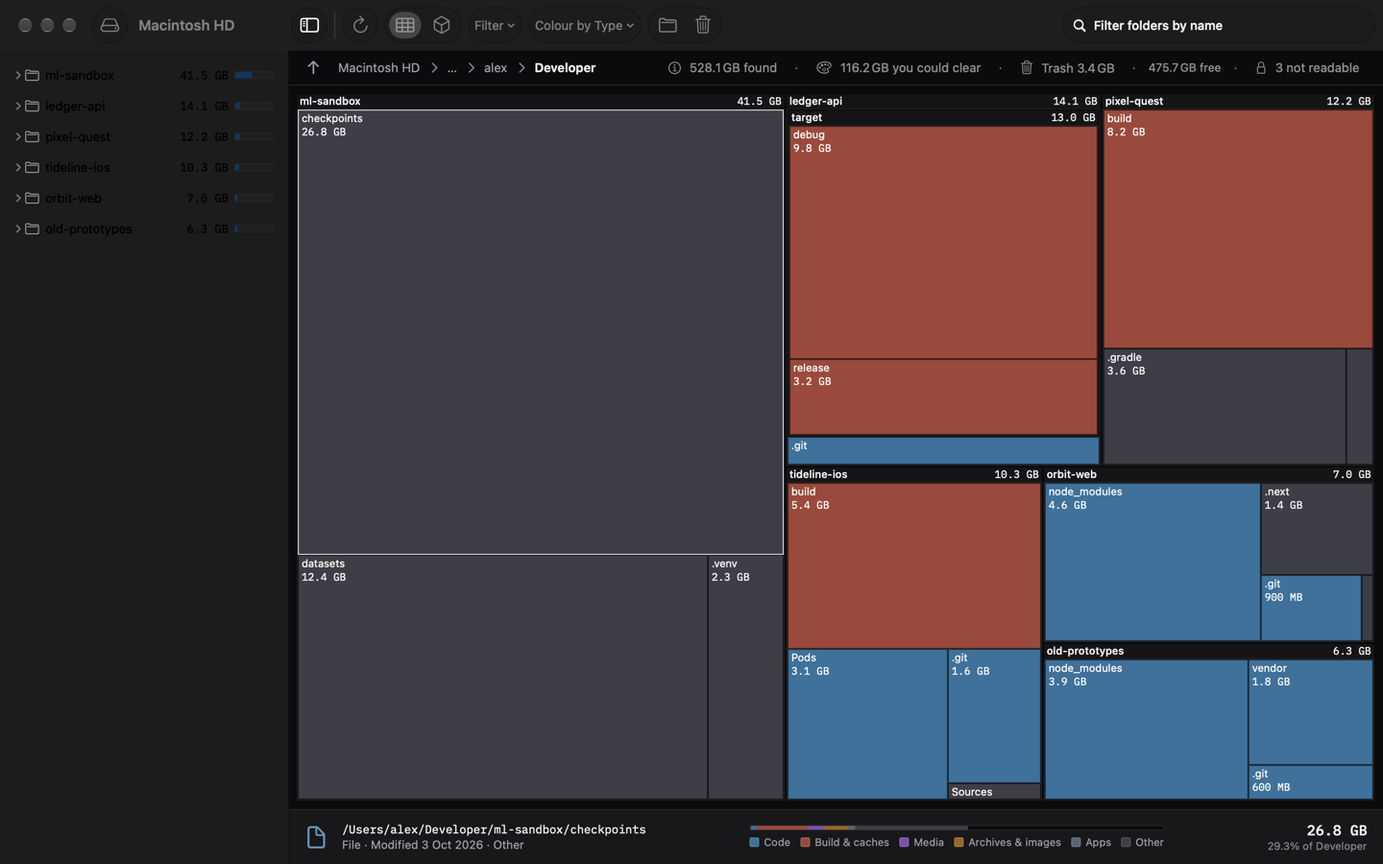
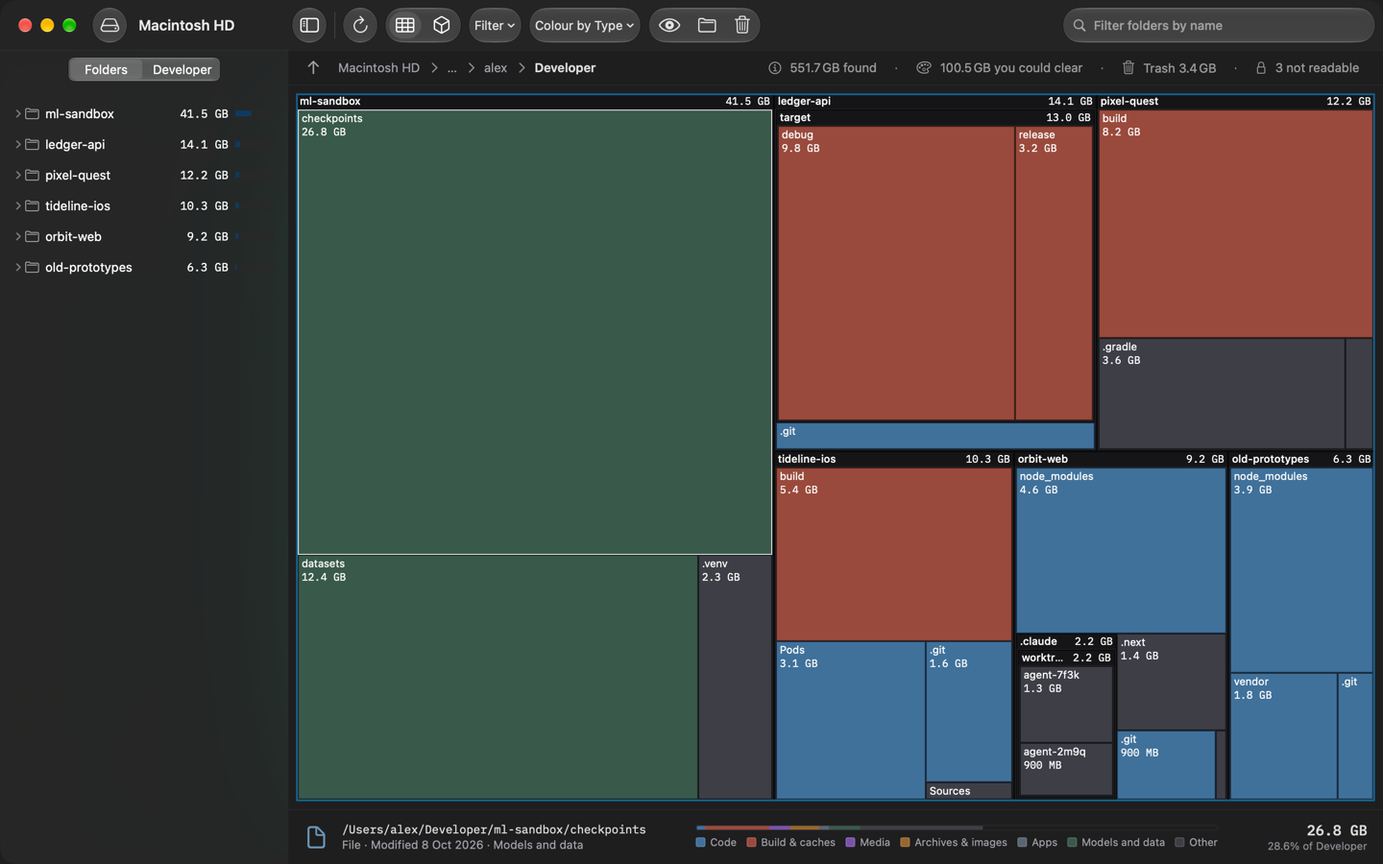
Update the Scope pages and add the connector page
Publish the copy from docs/website/ in ayeo-io/scope at 9d2a6be:

- /scope: seven colour modes, the way back, the tool's own command,
  and the Keep it from filling again, Put a project to sleep and
  Hand it over sections; footer links Accessibility.
- /scope/support, /scope/privacy, /scope/accessibility: new text.
- /scope/connector: new page for Scope for agents.

Replace five screenshots and add 2-3d.png and 6-trash.png. Add a
scopeSections filter that renders the connector copy between its
hero and footer.

diff --git a/src/assets/css/site.css b/src/assets/css/site.css
@@ -596,6 +596,20 @@ svg text { font-size: 14px; }
 .mode-age { --swatch: #b08d2c; }
 .mode-clearable { --swatch: #5b9c5a; }
 .mode-change { --swatch: #8b5bb3; }
+.mode-growth { --swatch: #c0392b; }
+.mode-origin { --swatch: #5b6472; }
+.scope-cards { list-style: none; margin: 1.5rem 0 0; padding: 0; display: grid; gap: 1rem; grid-template-columns: repeat(auto-fit, minmax(min(100%, 17rem), 1fr)); }
+.scope-cards li { border: 1px solid var(--rule); border-radius: var(--radius); background: var(--paper-2); padding: 1rem 1.15rem; color: var(--ink-2); min-width: 0; }
+.scope-cards strong { color: var(--ink); }
+.scope-pair-text { margin-top: clamp(2.5rem, 5vw, 3.5rem); gap: 2rem clamp(2rem, 4vw, 3rem); }
+.scope-pair-text p { margin: 1rem 0 0; color: var(--ink-2); }
+.scope-pair-text strong { color: var(--ink); }
+.scope-plain { margin: 1rem 0 0; padding-left: 1.2rem; color: var(--ink-2); }
+.scope-plain li { margin-bottom: 0.6rem; }
+.scope-shot-after { margin-top: 2rem; }
+.scope-text code { font-family: var(--mono); font-size: 0.92em; }
+.scope-doc blockquote { margin: 1rem 0; padding: 0.25rem 0 0.25rem 1.1rem; border-left: 4px solid var(--link); }
+.scope-doc .prose { max-width: 42em; }
 .scope-note { color: var(--ink-2); max-width: 38em; }
 .scope-list { list-style: none; margin: 1.5rem 0 0; padding: 0; display: grid; gap: 0.9rem; max-width: 42em; }
 .scope-list li { position: relative; padding-left: 1.4rem; color: var(--panel-text); }

diff --git a/eleventy.config.js b/eleventy.config.js
@@ -55,6 +55,16 @@ export default function (eleventyConfig) {
     return scopeMarkdown.render(source.replace(/^# .*\n/, ""));
   });
 
+  // The connector copy carries its own hero and footer, which the page
+  // template lays out; this renders the sections between them.
+  eleventyConfig.addFilter("scopeSections", (name, from, to) => {
+    const source = readFileSync(`src/_includes/scope/${name}.md`, "utf8");
+    const start = source.indexOf(`\n## ${from}\n`);
+    const end = source.indexOf(`\n## ${to}\n`);
+    if (start < 0 || end < start) throw new Error(`scopeSections: ${name}.md has no "## ${from}" before "## ${to}"`);
+    return scopeMarkdown.render(source.slice(start, end));
+  });
+
   eleventyConfig.addPlugin(feedPlugin, {
     type: "atom",
     outputPath: "/news/feed.xml",

diff --git a/src/_includes/scope/support.md b/src/_includes/scope/support.md
@@ -1,6 +1,6 @@
 # Scope support
 
-Scope shows you where your disk has gone. This page answers the questions we get most. If yours is not here, email support@ayeo.io with your macOS version and what you saw, and we will reply within two working days.
+Scope shows you where your disk has gone. This page answers the questions we get most. If yours is not here, email support@ayeo.io with your macOS version and what you saw, and we will reply within two working days. Help > Scope Help in the app opens this page.
 
 ## Getting started
 
@@ -14,40 +14,71 @@ Scope keeps each finished scan, so the next time you open it your disk shows at 
 
 macOS protects some folders, such as Mail, Messages, Safari data and parts of ~/Library. Without Full Disk Access, Scope shows them as "not readable" and counts them as unknown rather than guessing.
 
-To grant it: System Settings > Privacy & Security > Full Disk Access, turn on Scope, then scan again. Scope offers to open that page for you when it meets a protected folder.
+To grant it: System Settings > Privacy & Security > Full Disk Access, turn on Scope, then scan again. Scope offers to open that page for you when it meets a protected folder, and Scope > Full Disk Access… opens the sheet at any time.
 
 You can turn it off again at any time. Scope reads file names, sizes and dates only, never file contents, and sends nothing anywhere (see the privacy policy).
 
 ## Reading the map
 
-- **Size** is the space a file takes on disk, in allocated blocks, so it can differ from the size Finder shows for sparse or compressed files.
-- **Colour by Depth** (⌘1) shows how deep each folder is. **Type** (⌘2) colours by kind: code, build output and caches, media, archives and images, apps. **Age** (⌘3) colours by modification date. **Clearable** (⌘4) picks out build output, package caches, simulators and containers that can be rebuilt. **Change** (⌘5) compares with a saved scan.
+- **Size** is the space a file takes on disk, in allocated blocks, so it can differ from the size Finder shows for sparse or compressed files. Where clearing an entry would free less than its size, because a clone or hard link elsewhere shares its blocks, the info strip says what clearing frees.
+- **Colour by Depth** (⌘1) shows how deep each folder is. **Type** (⌘2) colours by kind: code, build output and caches, media, archives and images, apps, models and data. **Age** (⌘3) colours by modification date. **Clearable** (⌘4) picks out build output, package caches, virtual environments, agent worktrees and model stores that can be rebuilt, each with its way back. **Change** (⌘5) compares with a saved scan. **Growth** (⌘6) shows what is growing now while the volume is watched. **Origin** (⌘7) groups folders by the tool that wrote them.
 - The **3D map** (View > 3D Map, ⌥⌘3) shows the same disk as a platter of blocks. Drag to orbit, scroll or pinch to zoom, hold ⇧ or ⌥ and drag to pan, and press ⌥⌘0 to reset the camera. Each block's height is its size, or its age if you choose. The flat map and the 3D map share the same zoom, selection and filters.
-- The **sidebar** lists folders by size as an outline.
+- The **sidebar** (⌥⌘S) lists folders by size as an outline. Its **Developer** view lists the projects on the disk, with what could be cleared in each and when you last worked on it.
 - **Filters** in the toolbar narrow the map by name, kind or age.
+- The summary above the map says what was found, what you could clear and how much of it comes back in under a minute, the size of the Trash, the space free and how many folders could not be read. Each part is a button that shows more.
 
 ## Why the total is less than Finder's "used" figure
 
 Scope counts each file once per path and shows the sum of what it could read. Three things make its total smaller than the volume's used space:
 
 - Folders Scope cannot read (shown as "not readable" and counted in the summary).
-- Purgeable space: files macOS can remove on demand, such as local snapshots and caches. The picker shows this figure separately.
+- Purgeable space and local snapshots: files macOS can remove on demand. The picker shows the purgeable figure separately.
 - Files shared between paths by hard links or APFS clones, which Scope counts once per path.
 
-Scope says what it could not see rather than filling the gap with a guess.
+The grey part of the capacity bar, and the "Elsewhere on this disk" tile in the 3D map, hold the difference. Click either for a breakdown: the disk's other volumes, the local snapshots by date, the folders Scope could not read, and what is left, which Scope names as such rather than guessing. The breakdown shows the command that removes a snapshot; Scope never runs it.
 
 ## Freeing space
 
-- **Move to Trash** sends the item to the macOS Trash. Press ⌘Z to put it back. Scope never empties the Trash and never deletes anything permanently; empty the Trash in Finder when you are ready.
+- **Move to Trash** sends the item, or every item in a selection, to the macOS Trash. Press ⌘Z to put it back. The sheet names what the space comes back as, and warns before data macOS or your apps keep, and before a worktree with changes not yet committed. The space comes back when the Trash is emptied: choose Entry > Empty What Scope Moved… to remove what Scope moved there, after an alert, or empty the whole Trash in Finder. Scope never removes what it did not move.
+- **The way back.** Every clearable entry says what getting it back would cost: it rebuilds itself, one command, a build, or a download timed at the speed you set in Settings. Where the Trash would break the tool that owns a folder, such as an agent worktree or Docker's disk image, the sheet shows the tool's own command and **Copy Command** copies it. Scope never runs a command.
+- **Hibernate** (in the Developer view) moves a dormant project's rebuildable parts to the Trash, keeps your own files and anything not committed, and writes a receipt, `HIBERNATED.md`, at the top of the project with the build command. ⌘Z wakes it. A project is dormant when its own files have not changed for the days set in Settings (90 until you change it).
 - **Rescan Folder** (⌘R while zoomed in) scans one folder again and updates every size above it, so you do not rescan the whole volume after clearing something.
-- **Reveal in Finder** and **Open With** are in the right-click menu.
+- **Reveal in Finder** and **Open With** are in the right-click menu, and in the Entry menu for the selected entry.
 
-Scope does not clean, "optimise" or find duplicates. It shows you the disk; what you delete is your decision.
+Scope does not choose what to delete. It names what you could clear and what getting it back would cost, and does what you pick. There is no "optimise your Mac" and no one-press clean.
+
+## Watching a volume
+
+Scan > Watch Volume…, or the Watch button in the toolbar, keeps an eye on the volume after the scan. A menu bar item reads the free space and, when the disk is filling, says about when it will be full; its menu lists the five fastest-growing folders with their rate, and Colour by Growth shows them on the map. The window can be closed while Scope watches.
+
+Scope warns by notification for two causes only: the forecast falling under the threshold you set, and one file growing past a threshold in a short time. Choosing the warning opens Scope at the cause, and the warning offers to ignore that file. macOS asks for permission when you start watching; if notifications are off for Scope, the Watch sheet says so and opens the Notifications pane of System Settings.
+
+## Standing orders and the weekly review
+
+Settings > Standing Orders holds rules you write once: agent worktrees not changed for 14 days with nothing left to commit, build output of projects not changed for 60 days, and package folders of projects not changed for 90 days. All are off until you turn them on, and a rule moves nothing on its own. Scan > Weekly Review… lists what the rules match now, with what clearing each frees and its way back; you untick what stays, approve the rest, and one ⌘Z puts everything back. With "Notify me when a review is ready" on and the volume watched, one notification a week says how many entries the review holds.
+
+## Low space
+
+When the volume's free space falls under the figure in Settings (1 GB until you change it), a panel above the map lists the quickest space to get back from your last saved scan, cheapest way back first. Under 1 GB of free space a scan still runs, but its result is held in memory and saved once the space is back.
+
+## Saved scans, Change and time-lapse
+
+Scope keeps the last ten scans of a volume and, before them, one a week for a year, within the space set in Settings (5 GB until you change it). Scan > History opens any of them; Scan > Compare With and Colour by Change show what grew, shrank, is new or is gone since. Play beside the scrubber steps through the saved scans, oldest first. Settings turns history off or deletes it.
+
+## Export Summary
+
+File > Export Summary… (⇧⌘E) writes a short account of the scan to paste into a chat or send to a colleague: the 300 largest folders as an outline that adds up to the total, the totals by clearable group and by origin, and what could not be read. "Full" writes every folder at or above 0.1% of the scan as JSON. "Hide names" replaces your folder names with stand-ins and keeps the names tools chose. Scope writes a file or the clipboard; nothing is sent.
+
+## Settings
+
+- **General**: the download speed used to time a download's way back (Scope makes no network request to find it), the days after which a project is dormant, when Low space shows, and scan history with its space.
+- **Standing Orders**: the rules and the review notification.
 
 ## Known limits
 
 - Scope scans one volume at a time. Volumes mounted inside the one you scan (disk images, simulator runtimes) are shown as mount points and not entered.
 - The 3D map needs Metal. A Mac without it stays in the flat map and says why.
+- Scope never runs a command. The App Store app shows a tool's clean-up command for you to run; the separate [Scope for agents](https://ayeo.io/scope/connector) connector can run one with your approval.
 - Scope needs macOS 14 or later.
 
 ## Something went wrong
@@ -69,3 +100,4 @@ Purchases go through the Mac App Store, so Apple handles refunds: https://report
 Ayeo Ltd
 support@ayeo.io
 Privacy policy: https://ayeo.io/scope/privacy
+Accessibility: https://ayeo.io/scope/accessibility

diff --git a/src/_includes/scope/connector.md b/src/_includes/scope/connector.md
@@ -1,0 +1,79 @@
+# Scope for agents
+
+Address: https://ayeo.io/scope/connector
+
+Copy and structure for the connector page. The connector is a separate download from the Mac App Store app (see `Connector/APP-STORE.md`); this page is where the App Store app does not link yet.
+
+## Hero
+
+**Scope for agents**
+Let your coding agent ask before it fills the disk
+
+Agents write until zero bytes are free, then lose their own settings. Scope for agents is a small connector that gives Claude Code and Claude Desktop a sense of the disk: how much is free, what the budget is, what was left behind, and what could be cleared and how it comes back. Nothing moves until you say so, and nothing is ever erased.
+
+[Download Scope for agents](https://ayeo.io/scope/connector/scope.mcpb)
+Runs on node 18 or later · Free · No account, no network
+
+## What an agent can ask
+
+- **Does this job fit?** The free space, the budget you set ("leave 20 GB free"), and whether a job of a given size fits. When it does not, the largest entries that could be cleared, each with its way back.
+- **What did I leave?** What was written in the folder it worked in since it started: what could be cleared, with its way back, and your own files, which stay.
+- **What is filling the disk?** The folders that grew most since the last reading, by the tool that wrote them.
+- **Where is the rest?** The space the disk says is used that a scan did not find: the disk's other volumes with their use, the local snapshots by date, the folders Scope could not read, and what is left that Scope cannot name. It reads only, and removes no snapshot.
+- **What does this rule match?** What one of your standing orders matches now, with what clearing each entry frees and its way back. For an agent worktree, the agent asks git itself, so it knows exactly whether anything is left to commit and whether the branch was merged. It reads only: the weekly review in Scope is where you approve.
+- **Summarise this scan.** The same text Scope's File > Export Summary writes: the 300 largest folders as an outline that adds up to the total, the totals by clearable group and by origin, and what could not be read, so an agent elsewhere can reason about the disk from one message. With names hidden, each name you chose reads as a stand-in (`folder-12`, `project-3`), the same wherever it appears, and the names tools chose stay. It reads only, and sends nothing.
+- **May I clear this?** A proposal to move entries to the Trash. You see the proposal, its reason and what the Trash keeps, and you decide, each time. The agent cannot decide for you, and it cannot empty the Trash.
+
+Every answer says what Scope could not read and which figures are estimates. A clearing figure says what clearing frees beside the size when the two differ; a hard link counts once, and a clone counts whole, so the app shows the exact figure.
+
+## Install
+
+**Claude Desktop.** Open `scope.mcpb` (Settings > Extensions), choose the folder to analyse, and set Leave free to the GB you want kept free.
+
+**Claude Code.** Unpack `scope.mcpb` (it is a zip) somewhere that stays, such as `~/Library/Application Support/Scope/connector`, then add the server:
+
+```sh
+claude mcp add --env SCOPE_LEAVE_FREE_GB=20 --scope user scope -- node "$HOME/Library/Application Support/Scope/connector/server/index.js"
+```
+
+## Tell the agent to ask
+
+Add this sentence to the agent's instructions, such as `CLAUDE.md`:
+
+> Before a job that writes more than a few GB, ask Scope whether it fits the disk budget (`disk_budget`). When you finish, ask Scope what you left (`what_i_left`) and propose any clear-out with `propose_clear`, or a tool's own clean-up with `propose_cleanup`; never move, delete or clean up files yourself.
+
+## The Claude Code hook
+
+The hook asks for the budget when a session starts, so the answer is in the agent's context before it writes anything, and records what the session left when it ends. Add it to `~/.claude/settings.json`:
+
+```json
+{
+  "hooks": {
+    "SessionStart": [
+      { "matcher": "startup", "hooks": [ { "type": "command", "command": "SCOPE_LEAVE_FREE_GB=20 node \"$HOME/Library/Application Support/Scope/connector/server/index.js\" --ask disk_budget --stamp", "timeout": 30 } ] }
+    ],
+    "SessionEnd": [
+      { "hooks": [ { "type": "command", "command": "node \"$HOME/Library/Application Support/Scope/connector/server/index.js\" --ask what_i_left", "timeout": 30 } ] }
+    ]
+  }
+}
+```
+
+`--stamp` records when the session started, so "what I left" reads from there; the `startup` matcher keeps it to new sessions, so `/clear` and compaction do not move the start. The session's folder comes from the hook's input. Each call takes about 0.1 s over a small project.
+
+## What you see in Scope
+
+Window > Agent Log in Scope lists what agents asked and what they were told, and every proposal with who decided it. The connector writes the log to `~/Library/Application Support/Scope/agent-log.jsonl`; Scope only reads it.
+
+## What it never does
+
+- It never empties the Trash. An agent that asks is refused; only the person does that, in Finder or in Scope.
+- It never moves anything without your answer to that proposal.
+- It never runs a command. The way back for each entry is yours or the agent's to run.
+- It never talks to the network, and it reads only the folder you chose.
+
+## Footer
+
+Requires node 18 or later. Claude Code 2.1.76 or later asks you about proposals. In an older version, and in any host that cannot ask, a proposal is refused: nothing moves, and the agent is told to ask you itself.
+[Scope](https://ayeo.io/scope) · [Support](https://ayeo.io/scope/support) · [Privacy policy](https://ayeo.io/scope/privacy) · support@ayeo.io
+© 2026 Ayeo Ltd

diff --git a/src/_includes/scope/privacy.md b/src/_includes/scope/privacy.md
@@ -1,6 +1,6 @@
 # Scope privacy policy
 
-Last updated: 12 November 2026
+Last updated: 17 November 2026
 
 Scope is a disk space analyser for macOS, made by Ayeo Ltd. This policy explains what Scope does with your data. The short version: Scope collects nothing, sends nothing and has no way to do either.
 
@@ -10,13 +10,19 @@ Scope reads the file system of the volume you choose, so it can show you what ta
 
 If you grant Full Disk Access in System Settings, Scope can also read the folders macOS protects, such as Mail, Messages and Safari data. Without it, Scope shows those folders as "not readable" and does not guess at their contents. You can withdraw Full Disk Access at any time in System Settings > Privacy & Security.
 
+While you watch a volume, Scope listens for file changes on it to see what is growing, and reads the volume's free space. It reads the same metadata and nothing more.
+
+To explain the space a scan did not find, Scope reads the disk's volume figures and the list of local snapshots from macOS.
+
+If you also install Scope for agents, the separate connector, it writes a log of what agents asked at `~/Library/Application Support/Scope/agent-log.jsonl`. Scope reads that log to show it in Window > Agent Log, and writes nothing to it.
+
 Scope never reads the contents of your files. It reads their metadata only.
 
 ## What Scope stores
 
-Scope keeps each finished scan on your Mac, in its own container (`~/Library/Containers/io.ayeo.scope/`), so the next launch shows your disk at once and so Colour by Change can compare two scans. It keeps the last ten scans per volume and deletes older ones. A scan holds the paths, sizes and dates it read, and nothing else.
+Scope keeps each finished scan on your Mac, in its own container (`~/Library/Containers/io.ayeo.scope/`), so the next launch shows your disk at once and so Colour by Change and the time-lapse can compare scans. It keeps the last ten scans of a volume and, before them, one a week for a year, within the space you set in Settings (5 GB until set), and deletes older ones. You can turn history off in Settings, and delete one scan or a volume's scans from Scan > History. A scan holds the paths, sizes and dates it read, and nothing else.
 
-Scope also stores its settings (the view you chose, the colour mode, the workers per volume) in the same container.
+Scope also stores its settings in the same container: the view you chose, the colour mode, the workers per volume, the download speed, the dormant days, the Low space figure, your standing orders, which volume is watched, and the permission you granted for each volume.
 
 You can delete all of it by deleting Scope. Nothing is stored anywhere else.
 
@@ -24,14 +30,27 @@ You can delete all of it by deleting Scope. Nothing is stored anywhere else.
 
 Nothing. Scope makes no network connections. It runs under the macOS App Sandbox without the network entitlement, so the operating system blocks any connection the app might try to make. There is no analytics, no crash reporting, no account and no telemetry.
 
+The download speed in Settings is a figure you type; Scope uses it to estimate how long a cleared download would take to fetch again, and makes no request to measure it.
+
+The Help menu opens pages of ayeo.io in your browser. The browser makes that connection, as it does for any link, and Scope sends nothing with it.
+
 Scope's App Store privacy label is "Data Not Collected", which matches this policy.
+
+## What Scope notifies
+
+If you watch a volume, Scope asks macOS for permission to notify you, and warns when the disk is forecast to fill or one file grows fast, and once a week when a standing-order review is ready, if you turn that on. These are local notifications made on your Mac; nothing passes through a server. You can turn them off in System Settings > Notifications, and Scope says so in its Watch sheet.
 
 ## What Scope changes
 
 Scope changes your disk only when you ask it to:
 
-- Move to Trash puts the item in the macOS Trash, where you can put it back. Scope never empties the Trash and never deletes anything permanently.
+- Move to Trash puts the item in the macOS Trash, where you can put it back. Empty What Scope Moved removes from the Trash only what Scope moved there, and asks first. Scope never deletes anything permanently without asking, and never what it did not move.
+- The weekly review moves to the Trash only the entries you approve in it, and one Undo puts them back.
+- Hibernate moves a project's rebuildable folders to the Trash and writes one file, `HIBERNATED.md`, at the top of the project, which says what went and how to build it again. Undo removes the file and puts the folders back.
+- Export Summary writes a file where you choose, or puts text on the clipboard, only when you ask.
 - Reveal in Finder and Open With hand the item to Finder or the app you choose.
+
+Scope never runs a command. Where a tool's own command would do a better job than the Trash, Scope shows it for you to copy.
 
 ## Purchases
 

diff --git a/src/_includes/scope/accessibility.md b/src/_includes/scope/accessibility.md
@@ -1,8 +1,8 @@
 # Scope accessibility
 
-Last updated: 12 November 2026
+Last updated: 17 November 2026
 
-Scope follows the macOS accessibility settings rather than adding its own. This page says what each one does in Scope, and where the limits are. If something here does not work as described, email support@ayeo.io.
+Scope follows the macOS accessibility settings rather than adding its own. This page says what each one does in Scope, and where the limits are. If something here does not work as described, email support@ayeo.io. Help > Accessibility in Scope opens this page from the app.
 
 ## VoiceOver
 
@@ -10,7 +10,7 @@ Scope follows the macOS accessibility settings rather than adding its own. This 
 - The arrow keys move between items and VoiceOver follows. The selected item is the one the toolbar's Reveal and Trash act on, and VoiceOver reads it as selected.
 - The chart rotor plays the folder you are in as an Audio Graph: its children by size, each named.
 - The sidebar lists every folder by size as a standard outline, so you can read the whole disk without the map.
-- The 3D map is not readable item by item. It announces the same summary as the flat map and points you to the sidebar, which holds the same entries. The flat map is the default view.
+- The 3D map reads the same way: each block with an entry is a button with its name, size and kind, the selected block reads as selected, and the entry menu's items are the button's actions. The flat map is the default view.
 
 ## Voice Control
 
@@ -22,7 +22,7 @@ Everything in the map works from the keyboard: arrow keys move, Return zooms in,
 
 ## Dark Mode
 
-Scope follows the system appearance. Every colour in the map and the chrome has a light and a dark value.
+Scope follows the system appearance. The window's backgrounds, its text and the keyboard focus ring are the system's own colours, so they follow your appearance and your accent colour as every Mac window does. The selected entry's ring in the map takes your accent colour where it stands out against the map, and Scope's own navy where it would not. Every colour in the map has a light and a dark value.
 
 ## Differentiate Without Colour
 
@@ -42,7 +42,11 @@ macOS has no system-wide text size setting for apps of this kind, so App Store C
 
 ## Pointer
 
-The map works without precise pointing: a press and drag scrubs across it and snaps to the entries large enough to point at.
+The map works without precise pointing: a press and drag scrubs across it and snaps to the entries large enough to point at. The capacity bar's "Elsewhere" part answers a click 10 points above and below its thin line.
+
+## Notifications
+
+Watch's warnings and the weekly review's notice are standard macOS notifications, so they follow your Notifications settings and are read by VoiceOver as any notification is. Choosing one opens Scope at the cause; nothing moves.
 
 ## Contact
 
